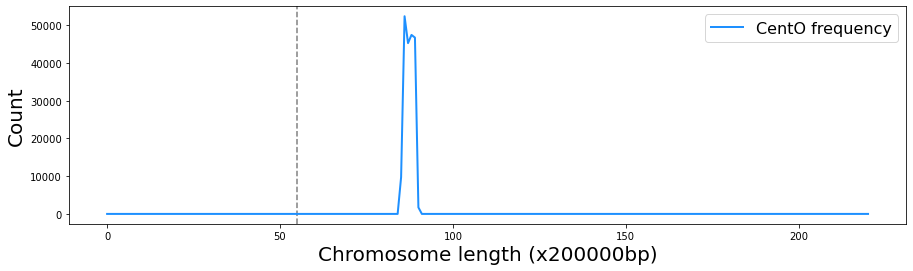
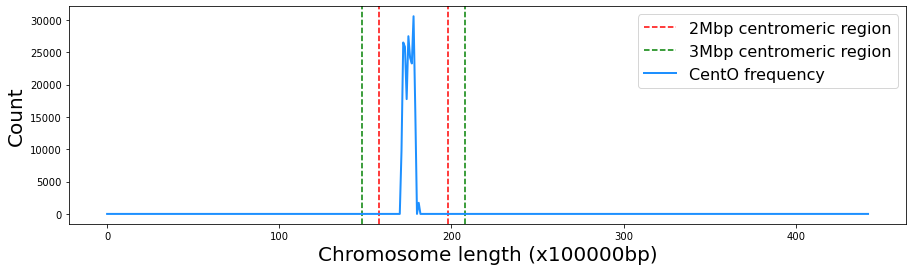
update

diff --git a/html/index.html b/html/index.html
@@ -52,7 +52,14 @@
 </ul>
 <section id="centofinder">
 <h2>CentOFinder<a class="headerlink" href="#centofinder" title="Permalink to this headline">¶</a></h2>
-<p>This is a Python3 implementation to predict the centromere of rice chromosomes using CentO sequences.</p>
+<p>This is a Python3 implementation to predict the centromere of rice chromosomes using CentO sequences.
+The CentOFinder module takes as input a fasta file with a rice chromosome sequence,
+divide the chromosome into windows of the length indicated by the user (Kbp windows are usually used),
+aligns the CentO sequence in the chromosome using the BLAST algorithm,
+and detects de window with highest frecuency of CentO alignments.
+As in rice the centromere is usually a region between 2 and 3 Mbp, the module predicts a centromeric
+region for each of these longitudes based on the midpoint of the window with the highest frequency
+of CentO alignments.</p>
 </section>
 <section id="setup">
 <h2>Setup<a class="headerlink" href="#setup" title="Permalink to this headline">¶</a></h2>
@@ -95,10 +102,8 @@ under the accession number RWKJ00000000.</p>
 <div class="highlight-default notranslate"><div class="highlight"><pre><span></span><span class="n">chromosome_path</span> <span class="o">=</span> <span class="s1">&#39;input_data/Osat_IR64_AGI_NSD_chrOK.id_chr01.fasta&#39;</span>
 </pre></div>
 </div>
-<p>Input window size. A window size between 2 to 3 Mbp is recommended since
-the size of the centromeric region of rice oscillates in this range,
-being different for each chromosome:</p>
-<div class="highlight-default notranslate"><div class="highlight"><pre><span></span><span class="n">size_w</span> <span class="o">=</span> <span class="mi">200_000</span>
+<p>Input window size:</p>
+<div class="highlight-default notranslate"><div class="highlight"><pre><span></span><span class="n">size_w</span> <span class="o">=</span> <span class="mi">100_000</span>
 </pre></div>
 </div>
 <p>Instantiate the CentOFinder class:</p>
@@ -111,15 +116,17 @@ being different for each chromosome:</p>
 </div>
 <p>The above prints the following:</p>
 <div class="highlight-default notranslate"><div class="highlight"><pre><span></span><span class="n">Chromosome</span> <span class="n">length</span><span class="p">:</span> <span class="mi">44350042</span> <span class="n">base</span> <span class="n">pairs</span>
-<span class="n">Window</span> <span class="n">size</span><span class="p">:</span> <span class="mi">200000</span>
-<span class="n">Total</span> <span class="n">chromosome</span> <span class="n">whindows</span><span class="p">:</span> <span class="mi">221</span>
+<span class="n">Window</span> <span class="n">size</span><span class="p">:</span> <span class="mi">100000</span>
+<span class="n">Total</span> <span class="n">chromosome</span> <span class="n">whindows</span><span class="p">:</span> <span class="mi">443</span>
 <span class="o">----------------------------------------</span>
 <span class="n">Approximate</span> <span class="n">location</span> <span class="n">of</span> <span class="n">centromere</span><span class="p">:</span>
-<span class="n">Window</span> <span class="n">number</span><span class="p">:</span> <span class="mi">86</span>
-<span class="n">Window</span> <span class="n">interval</span> <span class="p">(</span><span class="n">base</span> <span class="n">pairs</span><span class="p">):</span> <span class="p">[</span><span class="mi">17200000</span><span class="p">,</span><span class="mi">17400000</span><span class="p">]</span>
+<span class="n">Window</span> <span class="n">number</span><span class="p">:</span> <span class="mi">178</span>
+<span class="n">Window</span> <span class="n">midpoint</span> <span class="p">(</span><span class="n">base</span> <span class="n">pair</span><span class="p">):</span> <span class="mi">17850000</span>
+<span class="mi">2</span><span class="n">Mbp</span> <span class="n">centromeric</span> <span class="n">region</span> <span class="n">prediction</span><span class="p">:</span> <span class="p">[</span><span class="mi">15850000</span><span class="p">,</span><span class="mi">19850000</span><span class="p">]</span>
+<span class="mi">3</span><span class="n">Mbp</span> <span class="n">centromeric</span> <span class="n">region</span> <span class="n">prediction</span><span class="p">:</span> <span class="p">[</span><span class="mi">14850000</span><span class="p">,</span><span class="mi">20850000</span><span class="p">]</span>
 </pre></div>
 </div>
-<p>Plot the result</p>
+<p>Plot the results</p>
 <a class="reference internal image-reference" href="_images/Osat_IR64_chr01.png"><img alt="_images/Osat_IR64_chr01.png" src="_images/Osat_IR64_chr01.png" style="width: 800px;" /></a>
 </section>
 </section>
@@ -140,10 +147,14 @@ based on the frequency of CentO sequences.</p>
 <span class="sig-name descname"><span class="pre">detect_centromere</span></span><span class="sig-paren">(</span><em class="sig-param"><span class="n"><span class="pre">verbose</span></span><span class="o"><span class="pre">=</span></span><span class="default_value"><span class="pre">True</span></span></em><span class="sig-paren">)</span><a class="headerlink" href="#CentOFinder.CentOFinder.detect_centromere" title="Permalink to this definition">¶</a></dt>
 <dd><p>Computes the frequency of CentO alignments per window, 
 the window number with the highest frequency, 
-and the corresponding window interval in base pairs.</p>
+and the corresponding 2Mbp and 3Mbp centromeric region prediction.</p>
 <dl class="field-list simple">
 <dt class="field-odd">Parameters</dt>
-<dd class="field-odd"><p><strong>verbose</strong> (<em>bool</em>) – If True print information about the results. Default to True.</p>
+<dd class="field-odd"><p><strong>verbose</strong> (<em>bool</em>) – If True print information about the results, 
+i.e., chromosome length, window size, Total chromosome windows,
+window with highest CentO frequency, window midpoint and 
+centromeric region prediction of 2Mbp and 3Mbp.
+Default to True.</p>
 </dd>
 </dl>
 </dd></dl>
@@ -152,7 +163,8 @@ and the corresponding window interval in base pairs.</p>
 <dt class="sig sig-object py" id="CentOFinder.CentOFinder.plot_CentO_frequency">
 <span class="sig-name descname"><span class="pre">plot_CentO_frequency</span></span><span class="sig-paren">(</span><em class="sig-param"><span class="n"><span class="pre">color</span></span><span class="o"><span class="pre">=</span></span><span class="default_value"><span class="pre">'dodgerblue'</span></span></em>, <em class="sig-param"><span class="n"><span class="pre">label</span></span><span class="o"><span class="pre">=</span></span><span class="default_value"><span class="pre">'CentO</span> <span class="pre">frequency'</span></span></em><span class="sig-paren">)</span><a class="headerlink" href="#CentOFinder.CentOFinder.plot_CentO_frequency" title="Permalink to this definition">¶</a></dt>
 <dd><p>Plot the frequency of base pairs belonging to a CentO alignment for
-each window of the chromosome.</p>
+each window of the chromosome. Also displays the predicted centromeric region
+of 2Mbp and 3Mbp.</p>
 <dl class="field-list simple">
 <dt class="field-odd">Parameters</dt>
 <dd class="field-odd"><ul class="simple">

diff --git a/html/searchindex.js b/html/searchindex.js
@@ -1,1 +1,1 @@
-Search.setIndex({docnames:["README","index"],envversion:{"sphinx.domains.c":2,"sphinx.domains.changeset":1,"sphinx.domains.citation":1,"sphinx.domains.cpp":4,"sphinx.domains.index":1,"sphinx.domains.javascript":2,"sphinx.domains.math":2,"sphinx.domains.python":3,"sphinx.domains.rst":2,"sphinx.domains.std":2,sphinx:56},filenames:["README.rst","index.rst"],objects:{"":{CentOFinder:[1,0,0,"-"]},"CentOFinder.CentOFinder":{detect_centromere:[1,2,1,""],plot_CentO_frequency:[1,2,1,""]},CentOFinder:{CentOFinder:[1,1,1,""]}},objnames:{"0":["py","module","Python module"],"1":["py","class","Python class"],"2":["py","method","Python method"]},objtypes:{"0":"py:module","1":"py:class","2":"py:method"},terms:{"01":[0,1],"04":[0,1],"12":1,"17200000":[0,1],"17400000":[0,1],"18":1,"2":[0,1],"200000":[0,1],"200_000":[0,1],"2022":1,"22":[0,1],"221":[0,1],"3":[0,1],"34":1,"44350042":[0,1],"54":1,"86":[0,1],"class":[0,1],"default":1,"import":[0,1],"pe\u00f1uela":[0,1],"true":1,A:[0,1],If:1,The:[0,1],aa:[],about:1,abov:[0,1],access:[0,1],align:[0,1],an:[0,1],approxim:[0,1],apt:[0,1],ar:[0,1],author:1,avail:[0,1],base:[0,1],basic:[0,1],being:[0,1],belong:1,below:[0,1],between:[0,1],biopython:[0,1],biosampl:[],blast:[0,1],bool:1,c_window_interv:1,c_window_numb:1,call:[0,1],camila:[0,1],camilo:[0,1],cento:[0,1],cento_aa:[0,1],cento_freq:1,cento_path:[0,1],centofind:[],centromer:[0,1],centromere_predict:[],cf:[0,1],chr01:[],chromosom:[0,1],chromosome_length:1,chromosome_path:[0,1],clone:[0,1],code:[0,1],color:1,com:[0,1],command:[0,1],comput:1,contain:[0,1],correspond:1,creat:1,criccio35:[0,1],cultivar:[0,1],databas:[0,1],detail:[0,1],detect:[0,1],detect_centromer:[0,1],differ:[0,1],dodgerblu:1,each:[0,1],enter:[0,1],explan:[0,1],fasta:[0,1],file:[0,1],fink:[0,1],follow:[0,1],frequenc:1,fri:1,from:[],genom:[0,1],git:[0,1],github:[0,1],group:[0,1],highest:1,how:[0,1],id_chr01:[0,1],illustr:[0,1],img:[],implement:[0,1],index:1,indica:[0,1],inform:1,input:[0,1],input_data:[0,1],instal:[0,1],instanti:[0,1],interv:[0,1],ir64:[0,1],jorg:[0,1],label:1,last:[0,1],length:[0,1],line:1,local:[0,1],locat:[0,1],mar:1,mauricio:[0,1],mbp:[0,1],method:[0,1],modul:0,more:[0,1],ncbi:[0,1],none:1,number:[0,1],object:1,oryza:[0,1],osat_ir64_agi_nsd_chrok:[0,1],osat_ir64_chr01:[],oscil:[0,1],other:[0,1],page:1,pair:[0,1],paramet:1,path:[0,1],per:1,pip:[0,1],plant:[],plot:[0,1],plot_cento_frequ:1,png:[],predict:[0,1],print:[0,1],py:[0,1],python3:[0,1],rang:[0,1],recommend:[0,1],region:[0,1],repositori:[0,1],repres:1,result:[0,1],riccio:[0,1],rice:[0,1],rocha:[0,1],rwkj00000000:[0,1],same:[0,1],sativa:[0,1],search:[0,1],sequenc:[0,1],sinc:[0,1],size:[0,1],size_w:[0,1],src:[],string:1,sudo:[0,1],termin:[0,1],test:[0,1],thi:[0,1],tool:[0,1],total:[0,1],total_window:1,type:[],under:[0,1],updat:[0,1],us:[0,1],verbos:1,wbp:1,whindow:[0,1],window:[0,1],written:[0,1]},titles:["CentOFinder","Welcome to CentOFinder\u2019s documentation!"],titleterms:{analysi:[],centofind:[0,1],co:[],condit:[],document:1,exampl:[0,1],express:[],indic:1,modul:1,network:[],packag:1,requir:[0,1],s:1,setup:[0,1],specif:[],tabl:1,welcom:1,workflow:[]}})
+Search.setIndex({docnames:["README","index"],envversion:{"sphinx.domains.c":2,"sphinx.domains.changeset":1,"sphinx.domains.citation":1,"sphinx.domains.cpp":4,"sphinx.domains.index":1,"sphinx.domains.javascript":2,"sphinx.domains.math":2,"sphinx.domains.python":3,"sphinx.domains.rst":2,"sphinx.domains.std":2,sphinx:56},filenames:["README.rst","index.rst"],objects:{"":{CentOFinder:[1,0,0,"-"]},"CentOFinder.CentOFinder":{detect_centromere:[1,2,1,""],plot_CentO_frequency:[1,2,1,""]},CentOFinder:{CentOFinder:[1,1,1,""]}},objnames:{"0":["py","module","Python module"],"1":["py","class","Python class"],"2":["py","method","Python method"]},objtypes:{"0":"py:module","1":"py:class","2":"py:method"},terms:{"01":[0,1],"04":[0,1],"100000":[0,1],"100_000":[0,1],"12":1,"14850000":[0,1],"15850000":[0,1],"17200000":[],"17400000":[],"178":[0,1],"17850000":[0,1],"18":1,"19850000":[0,1],"2":[0,1],"200000":[],"200_000":[],"2022":1,"20850000":[0,1],"22":[0,1],"221":[],"2mbp":[0,1],"3":[0,1],"34":1,"3mbp":[0,1],"443":[0,1],"44350042":[0,1],"54":1,"86":[],"class":[0,1],"default":1,"import":[0,1],"pe\u00f1uela":[0,1],"true":1,A:1,As:[0,1],If:1,The:[0,1],aa:[],about:1,abov:[0,1],access:[0,1],algorithm:[0,1],align:[0,1],also:1,an:[0,1],approxim:[0,1],apt:[0,1],ar:[0,1],author:1,avail:[0,1],base:[0,1],basic:[0,1],being:[],belong:1,below:[0,1],between:[0,1],biopython:[0,1],biosampl:[],blast:[0,1],bool:1,c_window_interv:1,c_window_numb:1,call:[0,1],camila:[0,1],camilo:[0,1],cento:[0,1],cento_aa:[0,1],cento_freq:1,cento_path:[0,1],centofind:[],centromer:[0,1],centromere_predict:[],cf:[0,1],chr01:[],chromosom:[0,1],chromosome_length:1,chromosome_path:[0,1],clone:[0,1],code:[0,1],color:1,com:[0,1],command:[0,1],comput:1,contain:[0,1],correspond:1,creat:1,criccio35:[0,1],cultivar:[0,1],databas:[0,1],de:[0,1],detail:[0,1],detect:[0,1],detect_centromer:[0,1],differ:[],displai:1,divid:[0,1],dodgerblu:1,e:1,each:[0,1],enter:[0,1],explan:[0,1],fasta:[0,1],file:[0,1],fink:[0,1],follow:[0,1],frecuenc:[0,1],frequenc:[0,1],fri:1,from:[],genom:[0,1],git:[0,1],github:[0,1],group:[0,1],highest:[0,1],how:[0,1],i:1,id_chr01:[0,1],illustr:[0,1],img:[],implement:[0,1],index:1,indic:0,indica:[0,1],inform:1,input:[0,1],input_data:[0,1],instal:[0,1],instanti:[0,1],interv:[],ir64:[0,1],jorg:[0,1],kbp:[0,1],label:1,last:[0,1],length:[0,1],line:1,local:[0,1],locat:[0,1],longitud:[0,1],mar:1,mauricio:[0,1],mbp:[0,1],method:[0,1],midpoint:[0,1],modul:0,more:[0,1],ncbi:[0,1],none:1,number:[0,1],object:1,oryza:[0,1],osat_ir64_agi_nsd_chrok:[0,1],osat_ir64_chr01:[],oscil:[],other:[0,1],page:1,pair:[0,1],paramet:1,path:[0,1],per:1,pip:[0,1],plant:[],plot:[0,1],plot_cento_frequ:1,png:[],predict:[0,1],print:[0,1],py:[0,1],python3:[0,1],rang:[],recommend:[],region:[0,1],repositori:[0,1],repres:1,result:[0,1],riccio:[0,1],rice:[0,1],rocha:[0,1],rwkj00000000:[0,1],same:[0,1],sativa:[0,1],search:[0,1],sequenc:[0,1],sinc:[],size:[0,1],size_w:[0,1],src:[],string:1,sudo:[0,1],take:[0,1],termin:[0,1],test:[0,1],thi:[0,1],tool:[0,1],total:[0,1],total_window:1,type:[],under:[0,1],updat:[0,1],us:[0,1],user:[0,1],usual:[0,1],verbos:1,wbp:1,whindow:[0,1],window:[0,1],written:[0,1]},titles:["CentOFinder","Welcome to CentOFinder\u2019s documentation!"],titleterms:{analysi:[],centofind:[0,1],co:[],condit:[],document:1,exampl:[0,1],express:[],indic:1,modul:1,network:[],packag:1,requir:[0,1],s:1,setup:[0,1],specif:[],tabl:1,welcom:1,workflow:[]}})

diff --git a/html/README.html b/html/README.html
@@ -48,7 +48,14 @@
 </ul>
 <section id="centofinder">
 <h1>CentOFinder<a class="headerlink" href="#centofinder" title="Permalink to this headline">¶</a></h1>
-<p>This is a Python3 implementation to predict the centromere of rice chromosomes using CentO sequences.</p>
+<p>This is a Python3 implementation to predict the centromere of rice chromosomes using CentO sequences.
+The CentOFinder module takes as input a fasta file with a rice chromosome sequence,
+divide the chromosome into windows of the length indicated by the user (Kbp windows are usually used),
+aligns the CentO sequence in the chromosome using the BLAST algorithm,
+and detects de window with highest frecuency of CentO alignments.
+As in rice the centromere is usually a region between 2 and 3 Mbp, the module predicts a centromeric
+region for each of these longitudes based on the midpoint of the window with the highest frequency
+of CentO alignments.</p>
 </section>
 <section id="setup">
 <h1>Setup<a class="headerlink" href="#setup" title="Permalink to this headline">¶</a></h1>
@@ -91,10 +98,8 @@ under the accession number RWKJ00000000.</p>
 <div class="highlight-default notranslate"><div class="highlight"><pre><span></span><span class="n">chromosome_path</span> <span class="o">=</span> <span class="s1">&#39;input_data/Osat_IR64_AGI_NSD_chrOK.id_chr01.fasta&#39;</span>
 </pre></div>
 </div>
-<p>Input window size. A window size between 2 to 3 Mbp is recommended since
-the size of the centromeric region of rice oscillates in this range,
-being different for each chromosome:</p>
-<div class="highlight-default notranslate"><div class="highlight"><pre><span></span><span class="n">size_w</span> <span class="o">=</span> <span class="mi">200_000</span>
+<p>Input window size:</p>
+<div class="highlight-default notranslate"><div class="highlight"><pre><span></span><span class="n">size_w</span> <span class="o">=</span> <span class="mi">100_000</span>
 </pre></div>
 </div>
 <p>Instantiate the CentOFinder class:</p>
@@ -107,15 +112,17 @@ being different for each chromosome:</p>
 </div>
 <p>The above prints the following:</p>
 <div class="highlight-default notranslate"><div class="highlight"><pre><span></span><span class="n">Chromosome</span> <span class="n">length</span><span class="p">:</span> <span class="mi">44350042</span> <span class="n">base</span> <span class="n">pairs</span>
-<span class="n">Window</span> <span class="n">size</span><span class="p">:</span> <span class="mi">200000</span>
-<span class="n">Total</span> <span class="n">chromosome</span> <span class="n">whindows</span><span class="p">:</span> <span class="mi">221</span>
+<span class="n">Window</span> <span class="n">size</span><span class="p">:</span> <span class="mi">100000</span>
+<span class="n">Total</span> <span class="n">chromosome</span> <span class="n">whindows</span><span class="p">:</span> <span class="mi">443</span>
 <span class="o">----------------------------------------</span>
 <span class="n">Approximate</span> <span class="n">location</span> <span class="n">of</span> <span class="n">centromere</span><span class="p">:</span>
-<span class="n">Window</span> <span class="n">number</span><span class="p">:</span> <span class="mi">86</span>
-<span class="n">Window</span> <span class="n">interval</span> <span class="p">(</span><span class="n">base</span> <span class="n">pairs</span><span class="p">):</span> <span class="p">[</span><span class="mi">17200000</span><span class="p">,</span><span class="mi">17400000</span><span class="p">]</span>
+<span class="n">Window</span> <span class="n">number</span><span class="p">:</span> <span class="mi">178</span>
+<span class="n">Window</span> <span class="n">midpoint</span> <span class="p">(</span><span class="n">base</span> <span class="n">pair</span><span class="p">):</span> <span class="mi">17850000</span>
+<span class="mi">2</span><span class="n">Mbp</span> <span class="n">centromeric</span> <span class="n">region</span> <span class="n">prediction</span><span class="p">:</span> <span class="p">[</span><span class="mi">15850000</span><span class="p">,</span><span class="mi">19850000</span><span class="p">]</span>
+<span class="mi">3</span><span class="n">Mbp</span> <span class="n">centromeric</span> <span class="n">region</span> <span class="n">prediction</span><span class="p">:</span> <span class="p">[</span><span class="mi">14850000</span><span class="p">,</span><span class="mi">20850000</span><span class="p">]</span>
 </pre></div>
 </div>
-<p>Plot the result</p>
+<p>Plot the results</p>
 <a class="reference internal image-reference" href="_images/Osat_IR64_chr01.png"><img alt="_images/Osat_IR64_chr01.png" src="_images/Osat_IR64_chr01.png" style="width: 800px;" /></a>
 </section>
 

diff --git a/CentOFinder.py b/CentOFinder.py
@@ -122,14 +122,20 @@ class CentOFinder():
         '''
         Computes the frequency of CentO alignments per window, 
         the window number with the highest frequency, 
-        and the corresponding window interval in base pairs.
+        and the corresponding 2Mbp and 3Mbp centromeric region prediction.
         
-        :param verbose: If True print information about the results. Default to True.
+        :param verbose: If True print information about the results, 
+            i.e., chromosome length, window size, Total chromosome windows,
+            window with highest CentO frequency, window midpoint and 
+            centromeric region prediction of 2Mbp and 3Mbp.
+            Default to True.
         :type verbose: bool
         '''
         self._CentO_frequency()
         self.c_window_number = np.where(self.CentO_freq == max(self.CentO_freq))[0][0]
-        self.c_window_interval = (self.c_window_number*self.size_w, (self.c_window_number+1)*self.size_w)
+        w_start = self.c_window_number*self.size_w
+        w_end = (self.c_window_number+1)*self.size_w
+        self.c_midpoint = (w_start + w_end)//2
         
         print('Chromosome length: {0} base pairs'.format(self.chromosome_length))
         print('Window size: {0}'.format(self.size_w))
@@ -137,14 +143,18 @@ class CentOFinder():
         print('----------------------------------------')
         print('Approximate location of centromere:')
         print('Window number: {0}'.format(self.c_window_number))
-        print('Window interval (base pairs): [{0},{1}]'.format(self.c_window_interval[0],
-                                                                   self.c_window_interval[1]))
+        print('Window midpoint (base pair): {0}'.format(self.c_midpoint))
+        print('2Mbp centromeric region prediction: [{0},{1}]'.format(self.c_midpoint-2_000_000,
+                                                                     self.c_midpoint+2_000_000))
+        print('3Mbp centromeric region prediction: [{0},{1}]'.format(self.c_midpoint-3_000_000,
+                                                                     self.c_midpoint+3_000_000))
     
     
     def plot_CentO_frequency(self,color='dodgerblue',label='CentO frequency'):
         '''
         Plot the frequency of base pairs belonging to a CentO alignment for
-        each window of the chromosome.
+        each window of the chromosome. Also displays the predicted centromeric region
+        of 2Mbp and 3Mbp.
         
         :param color: color of the line that represents the frequency of alignments
         :type color: string
@@ -152,8 +162,17 @@ class CentOFinder():
         :type label: string
         '''
         fig, ax = plt.subplots(figsize=(15,4))
-        ax.axvline(x=self.total_windows//4,linestyle='--',color='gray')
+        ax.axvline(x=np.digitize(self.c_midpoint-2_000_000,self.wbp,right=False)-1,
+                   linestyle='--',color='red',label='2Mbp centromeric region')
+        ax.axvline(x=np.digitize(self.c_midpoint+2_000_000,self.wbp,right=False)-1,
+                   linestyle='--',color='red')
+        ax.axvline(x=np.digitize(self.c_midpoint-3_000_000,self.wbp,right=False)-1,
+                   linestyle='--',color='green',label='3Mbp centromeric region')
+        ax.axvline(x=np.digitize(self.c_midpoint+3_000_000,self.wbp,right=False)-1,
+                   linestyle='--',color='green')
+        
         ax.plot(self.CentO_freq,label=label,lw=2,color=color)
+        
         #---plot customization-----------------------------------------------------------
         ax.set_xlabel('Chromosome length (x{0}bp)'.format(self.size_w), fontsize=20)
         ax.set_ylabel('Count', fontsize=20)

diff --git a/README.rst b/README.rst
@@ -5,7 +5,13 @@ CentOFinder
 -----------
 
 This is a Python3 implementation to predict the centromere of rice chromosomes using CentO sequences.
-
+The CentOFinder module takes as input a fasta file with a rice chromosome sequence, 
+divide the chromosome into windows of the length indicated by the user (Kbp windows are usually used),
+aligns the CentO sequence in the chromosome using the BLAST algorithm,
+and detects de window with highest frecuency of CentO alignments.
+As in rice the centromere is usually a region between 2 and 3 Mbp, the module predicts a centromeric
+region for each of these longitudes based on the midpoint of the window with the highest frequency 
+of CentO alignments.
 
 Setup
 ------
@@ -52,11 +58,9 @@ Input chromosome fasta file path::
 
   chromosome_path = 'input_data/Osat_IR64_AGI_NSD_chrOK.id_chr01.fasta'
 
-Input window size. A window size between 2 to 3 Mbp is recommended since
-the size of the centromeric region of rice oscillates in this range, 
-being different for each chromosome::
+Input window size::
 
-  size_w = 200_000
+  size_w = 100_000
 
 Instantiate the CentOFinder class::
 
@@ -69,14 +73,16 @@ Call the method to detect the centromere::
 The above prints the following::
 
   Chromosome length: 44350042 base pairs
-  Window size: 200000
-  Total chromosome whindows: 221
+  Window size: 100000
+  Total chromosome whindows: 443
   ----------------------------------------
   Approximate location of centromere:
-  Window number: 86
-  Window interval (base pairs): [17200000,17400000]
+  Window number: 178
+  Window midpoint (base pair): 17850000
+  2Mbp centromeric region prediction: [15850000,19850000]
+  3Mbp centromeric region prediction: [14850000,20850000]
 
-Plot the result
+Plot the results
 
 .. image:: Osat_IR64_chr01.png
   :width: 800
